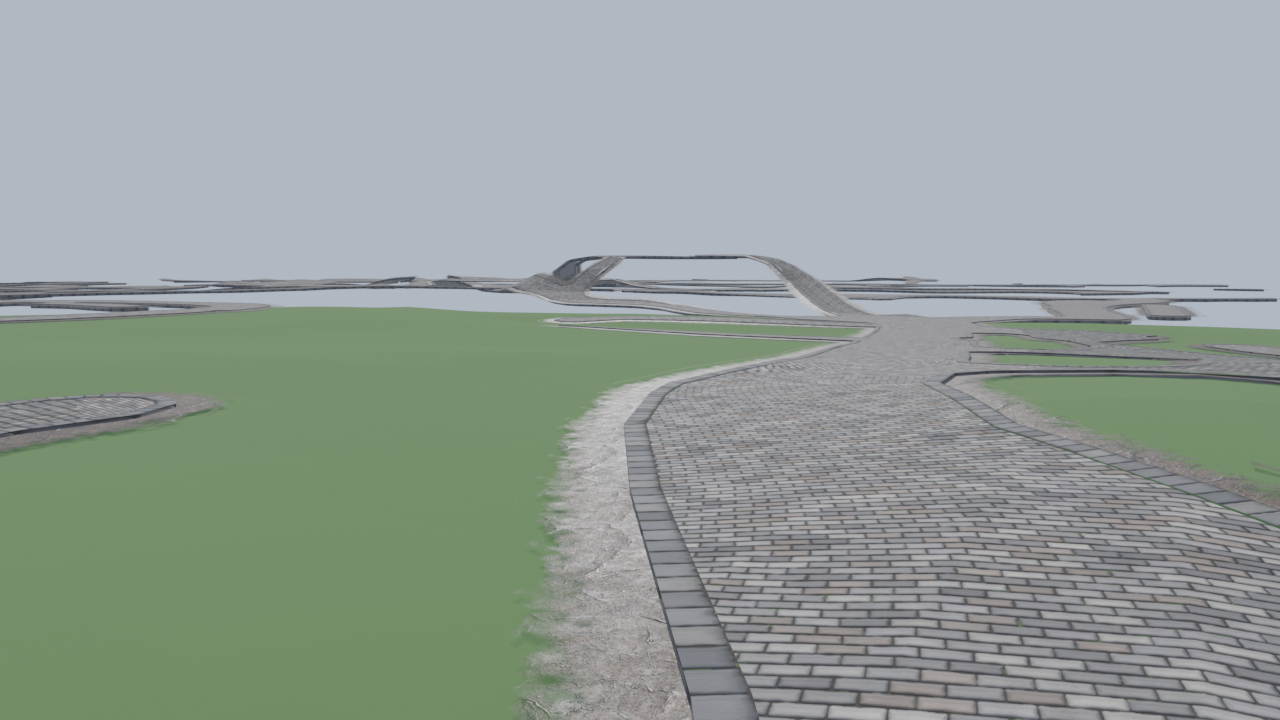
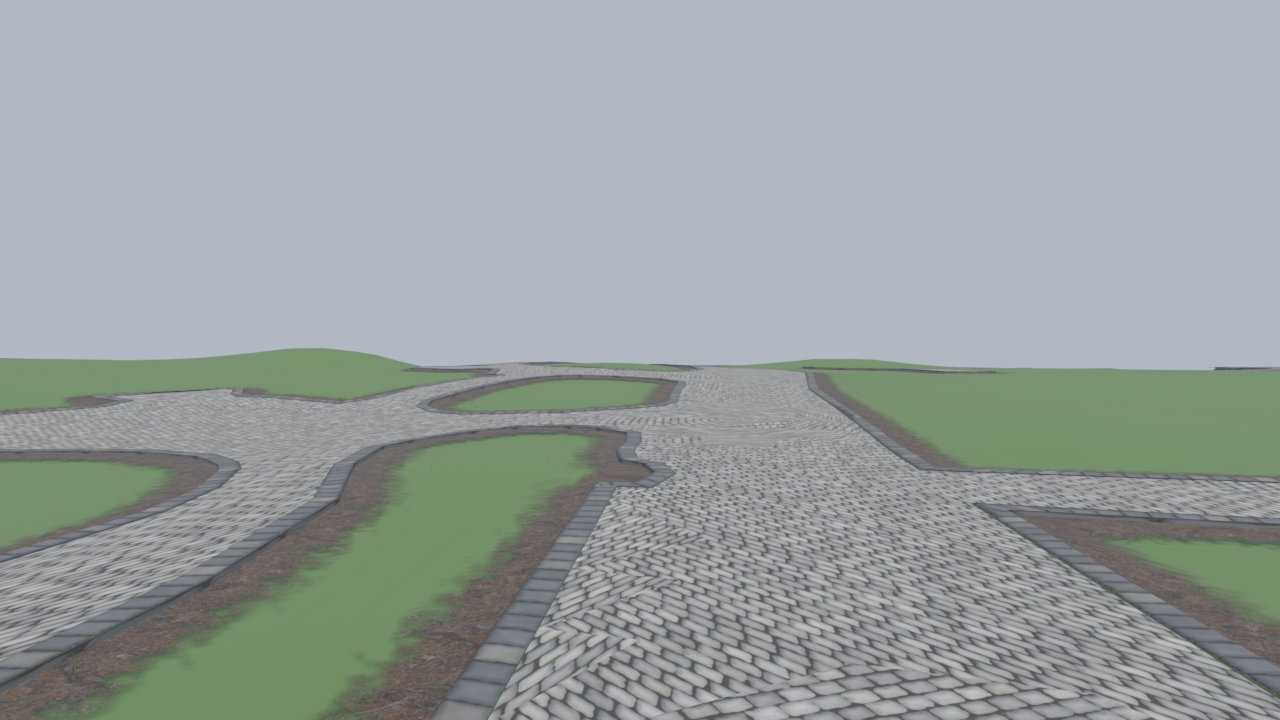
Paden ronde 3: bestrating per stuk uit de wandelvideo (visgraat roodbruin/grijs, keitjes Kabouterdorp, herautentuin glad), zone-opties alleen/veld

diff --git a/models/PR_Paden/build/03_texturen.py b/models/PR_Paden/build/03_texturen.py
@@ -79,10 +79,74 @@ def stenen(Wpx, Hpx, per_x, per_y, rij_h, steen_l, voeg, afr, palet, seed, bol=0
     return K, H, ruw
 
 
+def verf(X, lx, ly, Lx, Ly, keys, voeg, afr, palet, seed, bol=0.6, onregelmatig=0.0):
+    """Schaduw/kleur per steen gegeven lokale coördinaten (m) binnen de steen (Lx x Ly) en een steen-sleutel per pixel."""
+    uk, inv = np.unique(keys, return_inverse=True)
+    r1 = np.array([hashrand(int(k) // 1000, int(k) % 1000, seed) for k in uk])[inv].reshape(keys.shape)
+    r2 = np.array([hashrand(int(k) // 1000, int(k) % 1000, seed + 1) for k in uk])[inv].reshape(keys.shape)
+    r3 = np.array([hashrand(int(k) // 1000, int(k) % 1000, seed + 2) for k in uk])[inv].reshape(keys.shape)
+    v = voeg * (1 + (r2 - 0.5) * (0.6 + onregelmatig * 2))
+    dx = np.minimum(lx, Lx - lx) - v / 2; dy = np.minimum(ly, Ly - ly) - v / 2
+    hoek = np.sqrt(np.clip(afr - dx, 0, None) ** 2 + np.clip(afr - dy, 0, None) ** 2)
+    rand = np.where((dx < afr) & (dy < afr), afr - hoek, np.minimum(dx, dy))
+    rand = rand + (ruis(X.shape, 24, seed + 3) - 0.5) * afr * 0.9
+    binnen = rand > 0
+    H = np.where(binnen, np.clip(rand / afr, 0, 1) ** 0.5 * bol, -0.35)
+    H += binnen * ((r1 - 0.5) * 0.25 + (lx / Lx - 0.5) * (r3 - 0.5) * 0.3)
+    H += ruis(X.shape, 6, seed + 4) * 0.08 * binnen
+    pal = np.array(palet, float); ci = np.minimum((r1 * len(pal)).astype(int), len(pal) - 1)
+    K = pal[ci] * (0.92 + 0.16 * r3[..., None])
+    K = K * (0.9 + 0.2 * ruis(X.shape, 40, seed + 5)[..., None])
+    K = K * (0.93 + 0.1 * ruis(X.shape, 4, seed + 6)[..., None])
+    voegk = np.array([58, 53, 47.0]) * (0.8 + 0.35 * ruis(X.shape, 10, seed + 7)[..., None])
+    mos = (ruis(X.shape, 30, seed + 8) > 0.72)[..., None] & (~binnen)[..., None]
+    voegk = np.where(mos, np.array([72, 86, 50.0]), voegk)
+    K = np.where(binnen[..., None], K * (0.62 + 0.38 * np.clip(rand / (afr * 2.2), 0, 1) ** 0.7)[..., None], voegk)
+    ruw = np.where(binnen, 0.78 + 0.1 * r2 - 0.08 * np.clip(rand / afr, 0, 1), 0.96)
+    return K, H, ruw
+
+
+def visgraat(Wpx, P, n, voeg, afr, palet, seed, bol=0.6):
+    """Visgraatverband 90 graden (steen 2:1), onder 45 graden met het pad. Periode P m; n bepaalt de steenbreedte W = P/(n*sqrt2).
+    Rooster (in steenbreedtes, as-assenstelsel): liggende steen op i*(1,1)+j*(2,-2), staande steen op dezelfde plek + (-2,-1)."""
+    W = P / (n * np.sqrt(2)); s = (np.arange(Wpx) + 0.5) / Wpx * P; S_, T_ = np.meshgrid(s, s)
+    x = (S_ + T_) / np.sqrt(2) / W; y = (T_ - S_) / np.sqrt(2) / W
+    # opzoektabel 4x4 cellen -> (type, oorsprong)
+    tab = {}
+    for i in range(-6, 7):
+        for j in range(-6, 7):
+            ox, oy = i + 2 * j, i - 2 * j
+            for c in ((ox, oy), (ox + 1, oy)): tab[(c[0] % 4, c[1] % 4)] = (0, c[0] - ox, c[1] - oy)
+            for c in ((ox - 2, oy - 1), (ox - 2, oy)): tab[(c[0] % 4, c[1] % 4)] = (1, c[0] - (ox - 2), c[1] - (oy - 1))
+    cx = np.floor(x).astype(int); cy = np.floor(y).astype(int)
+    typ = np.zeros(x.shape, int); dxo = np.zeros(x.shape, int); dyo = np.zeros(x.shape, int)
+    for (a, b), (t, ex, ey) in tab.items():
+        m = (cx % 4 == a) & (cy % 4 == b); typ[m] = t; dxo[m] = ex; dyo[m] = ey
+    ox = cx - dxo; oy = cy - dyo
+    lx = (x - ox) * W; ly = (y - oy) * W
+    Lx = np.where(typ == 0, 2 * W, W); Ly = np.where(typ == 0, W, 2 * W)
+    # sleutel: steenmidden in textuurcoördinaten, periodiek
+    mx = ox + Lx / W / 2; my = oy + Ly / W / 2
+    ms = ((mx - my) * W / np.sqrt(2)) % P; mt = ((mx + my) * W / np.sqrt(2)) % P
+    keys = (np.round(ms / P * 997).astype(int) % 997) * 1000 + (np.round(mt / P * 997).astype(int) % 997) + typ * 7
+    return verf(S_, lx, ly, Lx, Ly, keys, voeg, afr, palet, seed, bol)
+
+
+# klinker: verweerde roodbruine gebakken klinkers in visgraatverband (video-route 2026: Sprookjesboom, Repelsteeltje, Vrouw Holle, Zevengeitjes, Kabouterdorp-Langnek)
+PAL_VR = [(150, 120, 110), (140, 112, 104), (160, 132, 120), (128, 104, 98), (146, 128, 118), (118, 98, 92), (158, 124, 108), (136, 120, 114)]
+K, H, R = visgraat(1024, 2.0, 14, 0.006, 0.012, PAL_VR, 13)
+K = (K * 0.62 + K.mean(2, keepdims=True) * 0.38) * 1.06   # verweerd: flets roze-grijsbruin zoals in de video
+opslaan('klinker', K, H, R, 4.0)
+# grijs: grijze betonklinkers in visgraat (zuidelijk bos: Trollenkoning, Rapunzel, Zeemeermin, Draak, Langnek-Roodkapje)
+PAL_VG = [(118, 116, 114), (128, 125, 122), (108, 106, 105), (138, 134, 128), (100, 99, 99), (124, 118, 112), (132, 130, 128)]
+K, H, R = visgraat(1024, 2.0, 14, 0.006, 0.012, PAL_VG, 17)
+opslaan('grijs', K, H, R, 4.0)
+# keitjes: lichte grijswitte keitjes ~10 cm (Kabouterdorp), onregelmatige rijen
+K, H, R = stenen(1024, 1024, 1.8, 1.8, 0.12, 0.15, 0.008, 0.03, [(186, 182, 174), (196, 192, 184), (172, 168, 162), (204, 198, 188), (164, 160, 156), (180, 174, 164)], 41, bol=1.0, onregelmatig=0.7)
+opslaan('keitjes', K, H, R, 5.0)
+# oud halfsteens (niet meer in gebruik als klinker)
 # klinker: 20 x 6,7 cm, rijen haaks op het pad (y = langs het pad), periode 2 m
 PAL_KL = [(128, 124, 122), (138, 133, 130), (118, 114, 113), (150, 145, 140), (165, 158, 150), (104, 100, 100), (132, 118, 108), (142, 136, 136)]
-K, H, R = stenen(1024, 1024, 2.0, 2.0, 2.0 / 30, 0.2, 0.006, 0.012, PAL_KL, 11)
-opslaan('klinker', K, H, R, 4.0)
 # kassei: grijze natuursteen-keien ~16 x 14 cm, onregelmatig, bol, brede zandvoeg
 PAL_KS = [(112, 110, 108), (124, 121, 118), (98, 97, 98), (136, 130, 122), (108, 104, 100), (145, 140, 132)]
 K, H, R = stenen(1024, 1024, 1.8, 1.8, 0.15, 0.18, 0.016, 0.035, PAL_KS, 21, bol=1.0, onregelmatig=0.6)

diff --git a/models/PR_Paden/build/02_mesh.py b/models/PR_Paden/build/02_mesh.py
@@ -16,8 +16,8 @@ D = os.path.dirname(os.path.dirname(os.path.abspath(__file__))); R = os.path.dir
 sys.path.insert(0, os.path.join(R, 'tools')); import veld
 
 BAND, FRINGE, CELL, TEGEL = 0.22, 0.8, 1.0, 24.0
-TOP = {'klinker': 0.18, 'kassei': 0.18, 'asfalt': 0.15, 'kantsteen': 0.22, 'waaier': 0.18, 'roze': 0.18, 'plavuis': 0.18}   # studs boven het maaiveld
-PERIODE = {'klinker': 2.0, 'kassei': 1.8, 'asfalt': 3.0, 'kantsteen': 2.0, 'rand': 2.4, 'waaier': 1.2, 'roze': 2.0, 'plavuis': 2.0}
+TOP = {'klinker': 0.18, 'grijs': 0.18, 'keitjes': 0.18, 'kassei': 0.18, 'asfalt': 0.15, 'kantsteen': 0.22, 'waaier': 0.18, 'roze': 0.18, 'plavuis': 0.18}   # studs boven het maaiveld
+PERIODE = {'klinker': 2.0, 'grijs': 2.0, 'keitjes': 1.8, 'kassei': 1.8, 'asfalt': 3.0, 'kantsteen': 2.0, 'rand': 2.4, 'waaier': 1.2, 'roze': 2.0, 'plavuis': 2.0}
 SKIRT = 0.9 / 3   # m omlaag langs de buitenrand
 
 d = json.load(open(os.path.join(D, 'ref_paden.json')))
@@ -63,9 +63,10 @@ for q in json.load(open(os.path.join(D, 'ref_zones.json')))['zones']:
     q['geom'] = g; ZONES.append(q)
 for q in ZONES:
     zg = q['geom'].intersection(Ui)
+    soorten = [k for k in SURF if k not in ('kantsteen', 'rand') and (not q.get('alleen') or k in q['alleen'])]
+    if q.get('alleen'): zg = zg.intersection(unary_union([SURF[k] for k in soorten] or [Polygon()])).buffer(0)
     if zg.is_empty: continue
-    for k in list(SURF):
-        if k in ('kantsteen', 'rand'): continue
+    for k in soorten:
         SURF[k] = SURF[k].difference(zg).buffer(0)
     SURF[q['type']] = unary_union([SURF.get(q['type'], Polygon()), zg]).buffer(0)
 SURF['kantsteen'] = U.difference(Ui).buffer(0)
@@ -296,7 +297,7 @@ for mat, geom in SURF.items():
         Y = Y + 0.10 - 0.07 * np.clip(afst(P[:, 0], P[:, 1], False) / FRINGE, 0, 1)
     # UV
     UV = np.zeros((len(P), 2))
-    if mat in ('klinker', 'kassei', 'waaier', 'roze', 'plavuis'):
+    if mat in ('klinker', 'grijs', 'keitjes', 'kassei', 'waaier', 'roze', 'plavuis'):
         per = PERIODE[mat]; u = np.zeros(len(P)); v = np.zeros(len(P))
         pts = shapely.points(C)
         # 1) pleinen (breed): recht verband langs de lange as van het plein

diff --git a/models/PR_Paden/build/04_blender.py b/models/PR_Paden/build/04_blender.py
@@ -34,7 +34,7 @@ def materiaal(naam, alfa=False):
     return m
 
 
-MATS = {k: materiaal(k, k == 'rand') for k in ('klinker', 'kassei', 'asfalt', 'kantsteen', 'rand', 'waaier', 'roze', 'plavuis')}
+MATS = {k: materiaal(k, k == 'rand') for k in ('klinker', 'grijs', 'keitjes', 'kassei', 'asfalt', 'kantsteen', 'rand', 'waaier', 'roze', 'plavuis')}
 data = json.load(open(os.path.join(D, 'exports', 'paden_mesh.json')))
 ntri = 0
 for naam, st in data.items():

diff --git a/STATUS.md b/STATUS.md
@@ -852,3 +852,12 @@ aangevuld met OSM-paden die > 3 m van een BGT-pad liggen (2,2 m / 3,5 m breed). 
 - NOG: terrein onder de net gesloten naadjes (< 1 m) is niet verlaagd (kan hier en daar door het pad prikken: controleren);
   soort bestrating per traject uit de video (yt-dlp/ffmpeg staan in `.venv-video`, video "Alone in the Efteling Fairy Tale Forest"
   2:23 u -> 1.724 frames elke 5 s in de scratchpad; `tools/video_frames.py`); kasseizones nu alleen waar OSM surface=sett zegt.
+
+## Paden, ronde 3: bestrating per stuk uit de video (15 nov 2026)
+- Bron: wandelvideo "Alone in the Efteling Fairy Tale Forest" (2,5 uur, frames om de 5 s), route langs de attracties gevolgd en per stuk pad de bestrating vastgesteld. Bewijsbeelden: models/PR_Paden/review/video_bewijs_*.jpg, kaart met soorten: review/soorten_kaart.jpg.
+- Bevinding: bijna alle bospaden zijn **klinkers in visgraatverband** (niet halfsteens). Kleur: verweerd roodbruin/roze-grijs (noorden, oosten, Kabouterdorp-Langnek, Vrouw Holle, Zevengeitjes) of grijs (zuidelijk bos: Trollenkoning, Rapunzel, Zeemeermin, Draak, Langnek-Roodkapje, Rode Schoentjes, Hans en Grietje).
+- Nieuwe texturen (03_texturen.py): `klinker` = roodbruine visgraat (nieuw), `grijs` = grijze visgraat, `keitjes` = lichte keitjes (Kabouterdorp). Visgraat is een echt 90-graden-rooster (steen 2:1) onder 45 graden met het pad, naadloos per 2 m.
+- Zones (ref_zones.json): Zuidbos_grijs (alleen klinker vervangen), Kabouterdorp_keitjes; Herautentuin nu glad grijs (asfalt) in plaats van waaier (video 90:00/97:40). Kasseipaden (Roodkapje, Pinokkio, Rode Schoentjes, Doornroosje) en de waaier rond het Herautenplein (video 65:20) blijven.
+- 02_mesh.py: zones kunnen `alleen` (welke soorten ze vervangen) en `uv: veld` (verband blijft het pad volgen).
+- Studio: MODEL 80732356672347, 448 delen met textuur (klinker 99, grijs 33, keitjes 5, kassei 17, waaier 8, roze 3, plavuis 4, asfalt 18). Place nog niet opgeslagen.
+- Nog open: Trollenkoningplein lijkt in de video grote grijze platen (nu grijze visgraat); bij Assepoester/Zes Zwanen staat een roodbruin plein met kasseirand (video 77:10) dat nu BGT-asfalt is; ronde verbredingen in Kabouterdorp tonen zichtbare ringen.
